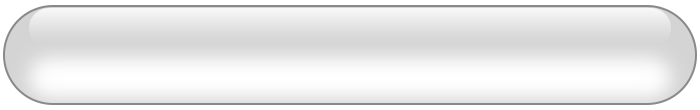
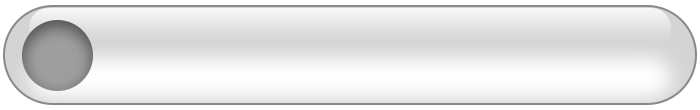
Change in kungs

Changed region(s): [[0.03, 0.1636, 0.15, 0.8455]]

diff --git a/client/assets/js/scenea.js b/client/assets/js/scenea.js
@@ -131,9 +131,9 @@ class SceneA extends Phaser.Scene {
 
             var img = this.add.image ( 0, 0, 'pind' );
 
-            var ttxt = this.add.text ( -230, -20, this.playersData[i].username, { color:'#646464', fontFamily:'Oswald', fontSize: 34 }).setOrigin (0, 0.5);
+            var ttxt = this.add.text ( -240, -20, this.playersData[i].username, { color:'#646464', fontFamily:'Oswald', fontSize: 34 }).setOrigin (0, 0.5);
 
-            var wins = this.add.text ( -230, 20, 'Wins: 0', { color:'#9e9e9e', fontFamily:'Oswald', fontSize: 28 }).setOrigin (0, 0.5);
+            var wins = this.add.text ( -240, 20, 'Wins: 0', { color:'#9e9e9e', fontFamily:'Oswald', fontSize: 28 }).setOrigin (0, 0.5);
 
             cont.add ( [img, ttxt, wins ]);
 
@@ -497,9 +497,9 @@ class SceneA extends Phaser.Scene {
 
             var cont = this.add.container ( cell.x, cell.y );
 
-            var rct = this.add.rectangle ( 0, 0, this.cellSize-2 , this.cellSize-2, 0xffffff, 0.2 );
+            var rct = this.add.rectangle ( 0, 0, this.cellSize-1, this.cellSize-1, 0xdedede, 0.6 );
 
-            var crc = this.add.circle ( 0, 0, 15, isHit ? 0xff3333 : 0x6a6a6a, 1 ).setScale (0.5);
+            var crc = this.add.circle ( 0, 0, 10, isHit ? 0xff3333 : 0x6a6a6a, 1 ).setScale (0.5);
 
             this.add.tween ({
                 targets : crc,
@@ -510,8 +510,6 @@ class SceneA extends Phaser.Scene {
             });
 
             cont.add ( [ rct, crc ]);
-
-            this.playersData [ this.turn ].shotsFired.push ({ post : cell.id, result : isHit ? 1 : 0 });
 
             this.endTurn ();
 
@@ -592,20 +590,15 @@ class SceneA extends Phaser.Scene {
         this.startTurn ();
     }
 
-    startTurn ( delay = 1000 )
+    startTurn ()
     {
-
-        this.time.delayedCall ( delay, () => {
-
-            if ( this.playersData [ this.turn ].isAI ) {
-                this.turnAI ();
-            }else {
-                if ( this.turn == 'self' ) this.activateCells ()
+        if ( this.playersData [ this.turn ].isAI ) {
+            this.time.delayedCall ( 500, this.turnAI, [], this);
+        }else {
+            if ( this.turn == 'self' ) {
+                this.time.delayedCall ( 200, this.activateCells, [], this);
             }
-
-        }, [], this);
-
-    
+        }
     }
 
     endTurn ()
@@ -617,34 +610,16 @@ class SceneA extends Phaser.Scene {
 
     turnAI () 
     {
-        
-        var sf = this.playersData[this.turn].shotsFired;
+        var sf = this.playersData[ this.turn ].shotsFired;
 
-        var pick = 0;
+        var indx =  Math.floor(Math.random() * sf.length);
 
-        if ( sf.length == 0 ) {
+        var pick = sf [ indx ];
 
-            pick = Math.floor (Math.random() * 100 );
-
-        }else {
-
-            var prevShot = sf [ sf.length - 1 ];
-
-            if ( prevShot.result == 1 ) {
-
-                var adj = this.getAdjacents ( prevShot.post );
-
-                
-
-            }else {
-
-
-
-            }
-
-        }
+        sf.splice ( indx, 1 );
 
         this.cellPick ( pick );
+
 
 
     }

diff --git a/client/assets/js/players.js b/client/assets/js/players.js
@@ -14,6 +14,10 @@ class Player {
 
         this.shotsFired = [];
 
+        for ( var i = 0; i < 100; i++ ) {
+            this.shotsFired.push (i);
+        }
+
     }
 
 
